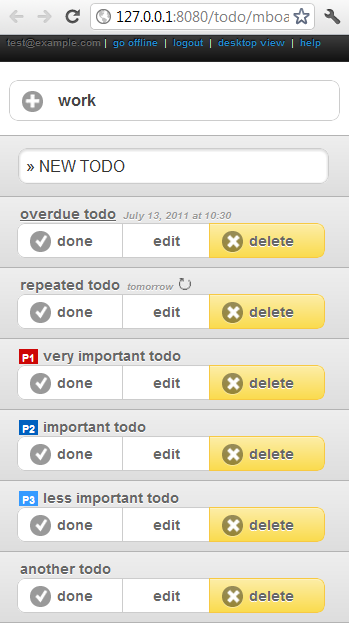
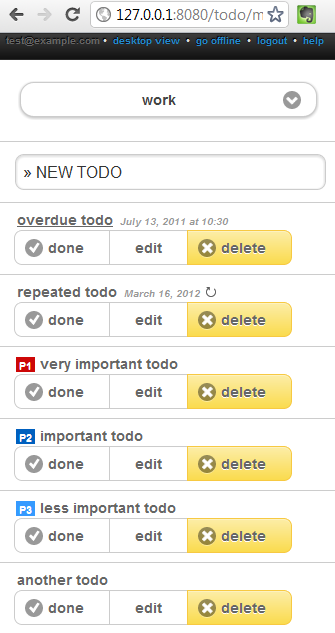
changed link separators

diff --git a/templates/todo/board.html b/templates/todo/board.html
@@ -110,14 +110,14 @@ $(function() {
 <br/>
 <span class="small sort_by" data-role="controlgroup" data-type="horizontal">
 sort by:
-<a href="#" id="sort_mode_D" class="sort_mode selected_link ui-btn-active" data-role="button">date</a>{% if not mobile %}<span class="light"> | </span>{% endif %}
-<a href="#" id="sort_mode_P" class="sort_mode" data-role="button">priority{% if not mobile %}{% endif %}</a>{% if not mobile %}<span class="light"> | </span>{% endif %}
+<a href="#" id="sort_mode_D" class="sort_mode selected_link ui-btn-active" data-role="button">date</a>{% if not mobile %}<span class="light"> &bull; </span>{% endif %}
+<a href="#" id="sort_mode_P" class="sort_mode" data-role="button">priority{% if not mobile %}{% endif %}</a>{% if not mobile %}<span class="light"> &bull; </span>{% endif %}
 <a href="#" id="sort_mode_A" class="sort_mode" data-role="button">a-z</a>
 </span>
 
 <span style="display:none" class="small sort_by" data-role="controlgroup" data-type="horizontal">
 show completed:
-<a href="#" class="show_complete selected_link ui-btn-active" id="show_complete_T" data-role="button">yes</a>{% if not mobile %}<span class="light"> | </span>{% endif %}<a href="#" class="show_complete" id="show_complete_F" data-role="button">no</a>
+<a href="#" class="show_complete selected_link ui-btn-active" id="show_complete_T" data-role="button">yes</a>{% if not mobile %}<span class="light"> &bull; </span>{% endif %}<a href="#" class="show_complete" id="show_complete_F" data-role="button">no</a>
 </span>
 {% endif %}
 

diff --git a/templates/todo/base_auth_site.html b/templates/todo/base_auth_site.html
@@ -4,14 +4,14 @@
 {% block content_headline%}
 {{ block.super }}
 <span class="small" style="float:right;position:absolute;right:100;">
-<b>{% google_user %}{{ user.username }}</b> <span class="light"> | </span> 
+<b>{% google_user %}{{ user.username }}</b> <span class="light"> &bull; </span> 
 {% if mobile %}
-<a href="{% url board %}" data-ajax="false">desktop view</a> <span class="light"> | </span> 
+<a href="{% url board %}" data-ajax="false">desktop view</a> <span class="light"> &bull; </span> 
 {% else %}
-<a href="{% url mobile_board %}">mobile view</a> <span class="light"> | </span> 
+<a href="{% url mobile_board %}">mobile view</a> <span class="light"> &bull; </span> 
 {% endif %}
-<a href="#" id="network_switch" class="network_switch">network</a> <span class="light"> | </span> 
-<a href="{{logout_url}}">logout</a> <span class="light"> | </span> 
+<a href="#" id="network_switch" class="network_switch">network</a> <span class="light"> &bull; </span> 
+<a href="{{logout_url}}">logout</a> <span class="light"> &bull; </span> 
 <a class="help_toggle" href="#">help</a>
 </span>
 <div style='display:none'>

diff --git a/app_version.py b/app_version.py
@@ -16,6 +16,6 @@
 
 APP_VERSION_MAJOR=1
 APP_VERSION_MINOR=30
-APP_VERSION_FIX=58
+APP_VERSION_FIX=60
 
 APP_VERSION="%s.%s.%s" % (APP_VERSION_MAJOR, APP_VERSION_MINOR, APP_VERSION_FIX)
